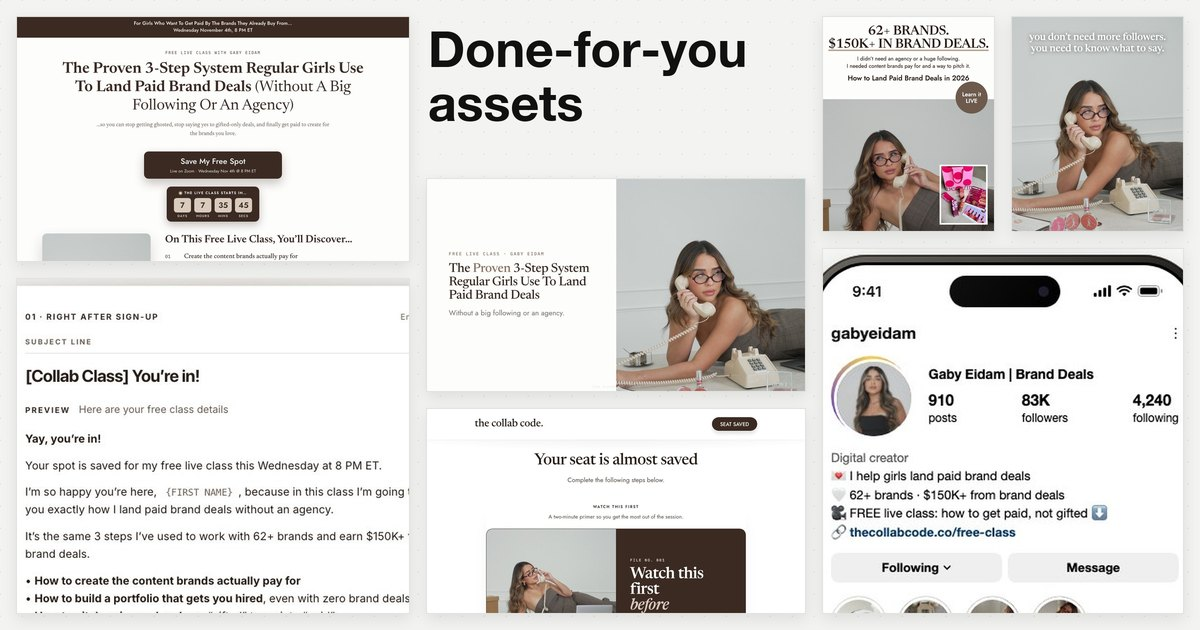
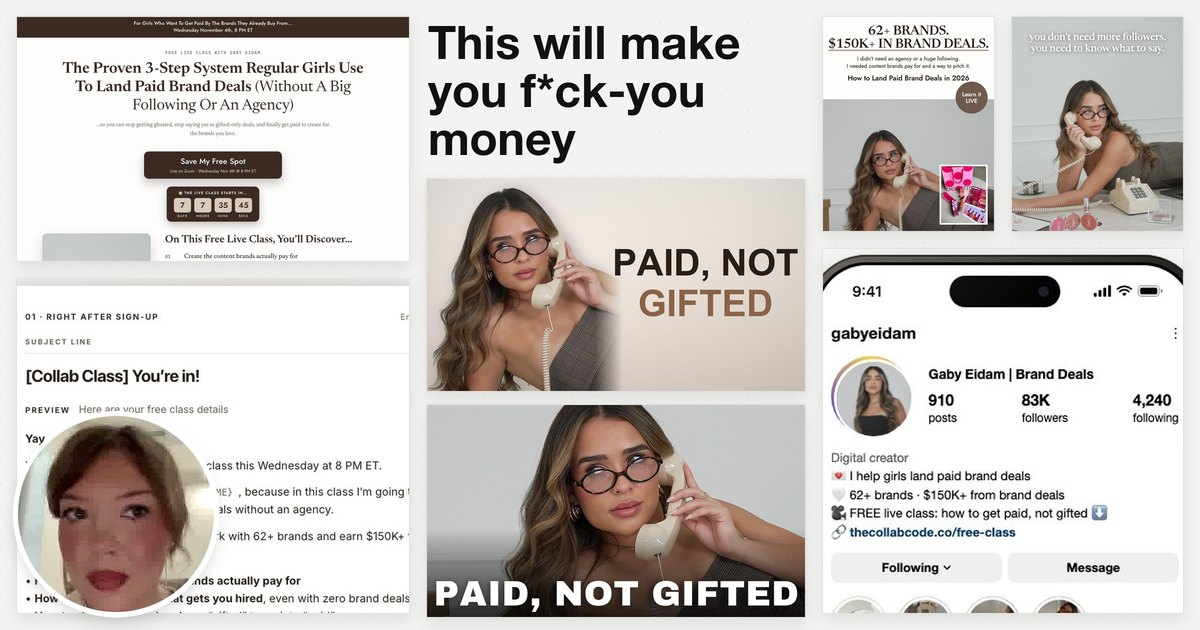
F-you money board with my face; YouTube thumbnail options

Changed region(s): [[0.3392, 0.0302, 0.6783, 0.9952], [0.0, 0.6635, 0.185, 0.9952]]

diff --git a/index.html b/index.html
@@ -8,14 +8,14 @@
   <meta name="robots" content="noindex" />
   <meta property="og:title" content="Gaby, adding an extra $100k a month to your personal brand" />
   <meta property="og:description" content="Gaby, adding an extra $100k a month to your personal brand" />
-  <meta property="og:image" content="https://nikola424.github.io/for-gabyeidam/og.jpg?v=3" />
+  <meta property="og:image" content="https://nikola424.github.io/for-gabyeidam/og.jpg?v=4" />
   <meta property="og:image:width" content="1200" />
   <meta property="og:image:height" content="630" />
   <meta property="og:url" content="https://nikola424.github.io/for-gabyeidam/" />
   <meta property="og:type" content="website" />
   <meta name="twitter:card" content="summary_large_image" />
   <meta name="twitter:title" content="Gaby, adding an extra $100k a month to your personal brand" />
-  <meta name="twitter:image" content="https://nikola424.github.io/for-gabyeidam/og.jpg?v=3" />
+  <meta name="twitter:image" content="https://nikola424.github.io/for-gabyeidam/og.jpg?v=4" />
   <!-- Generated per build from the PROSPECT'S logo: node scripts/make_favicon.js {folder} -->
   <link rel="icon" href="assets/img/favicon.png" type="image/png" />
   <link rel="apple-touch-icon" href="assets/img/apple-touch-icon.png" />
@@ -133,7 +133,7 @@
       <div class="container">
         <div class="bridge__head">
           <p class="eyebrow reveal">Before the deliverables</p>
-          <h2 class="section__title bridge__title reveal">Two things I noticed<br />before I built anything.</h2>
+          <h2 class="section__title bridge__title reveal">Three things I noticed<br />before I built anything.</h2>
         </div>
 
         <article class="beat reveal">
@@ -150,6 +150,17 @@
             <p class="beat__kicker">Free live class</p>
             <h3 class="beat__title">I&rsquo;d run a free live class, the proven funnel that&rsquo;s converting best right now.</h3>
             <p class="beat__text">Live classes are crushing it at the moment, and yours would sell The Collab Code directly, at its current price.</p>
+          </div>
+        </article>
+        <article class="beat reveal">
+          <div class="beat__num"><span class="beat__idx">03</span><span class="beat__rule"></span></div>
+          <div class="beat__copy">
+            <p class="beat__kicker">YouTube</p>
+            <h3 class="beat__title">You&rsquo;re not on YouTube yet.</h3>
+            <p class="beat__text">What if you added a flywheel funnel? Instagram brings in new eyes, and YouTube nurtures them. People need to watch a lot of videos to build trust with somebody, so YouTube is the best place for that. With Reels alone they would have to watch hundreds of them. On YouTube they can watch you for an hour. I made two thumbnails for your first video.</p>
+          </div>
+          <div class="beat__aside">
+            <figure class="shot shot--wide"><img src="assets/img/course-thumb-1.jpg?v=1" alt="Thumbnail option 1" loading="lazy" /><figcaption>Option 1</figcaption></figure><figure class="shot shot--wide"><img src="assets/img/course-thumb-2.jpg?v=1" alt="Thumbnail option 2" loading="lazy" /><figcaption>Option 2</figcaption></figure>
           </div>
         </article>
         <div class="bridge__close reveal">
